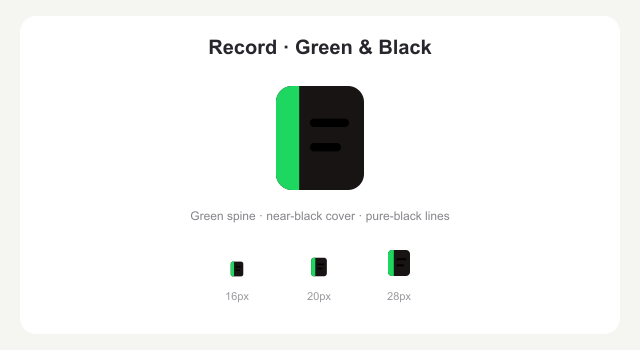
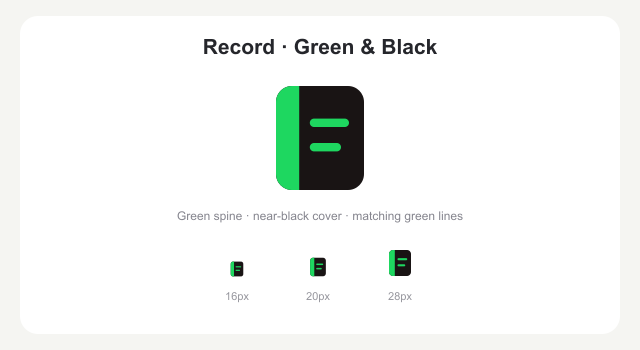
design: match Record lines to green spine (#124)

diff --git a/docs/design/record-ai-chat-icons-20261013.html b/docs/design/record-ai-chat-icons-20261013.html
@@ -1,51 +1,51 @@
 <!doctype html><html lang="zh-CN"><meta charset="utf-8"><meta name="viewport" content="width=device-width,initial-scale=1"><title>Record 与 AI 对话 · 彩色图标提案</title><style>*{box-sizing:border-box}body{margin:0;padding:48px 32px;background:#f5f5f2;color:#28282d;font-family:system-ui,-apple-system,sans-serif}main{max-width:850px;margin:auto}h1{font-size:26px;font-weight:600;margin:0 0 12px}.intro{color:#85858b;font-size:14px;margin:0 0 28px}.grid{display:grid;grid-template-columns:repeat(2,minmax(0,1fr));gap:20px}article{background:#fff;border-radius:16px;padding:34px 28px}h2{text-align:center;font-size:18px;margin:18px 0 8px}article>p{text-align:center;font-size:13px;color:#85858b;margin:0 0 28px}.hero{display:flex;justify-content:center}.sizes{display:flex;gap:30px;align-items:flex-end;justify-content:center;padding-bottom:28px}.sizes>span{display:flex;flex-direction:column;align-items:center;gap:10px}small{font-size:11px;color:#aaa}.tab{display:flex;align-items:center;gap:9px;padding:12px 14px;border-radius:8px;font-size:13px;background:#f4f4f7;margin:8px 0}.dark{background:#25242b;color:#e9e8ee}svg{display:block;flex:none}footer{margin-top:22px;font-size:12px;color:#999;text-align:center}@media(max-width:600px){body{padding:24px 16px}.grid{grid-template-columns:1fr}}</style><main><h1>Record 绿黑试版与配色方案</h1><p class="intro">参照 DSH 彩色图标：实色、圆角、白色标记；放大预览与实际使用尺寸。</p><div class="grid"><article><div class="hero"><svg xmlns="http://www.w3.org/2000/svg" width="112" height="112" viewBox="0 0 28 28" fill="none">
   <title>Record · Spotify</title>
-  <!-- Green spine, near-black cover, pure-black record lines. -->
+  <!-- Green spine, near-black cover, matching green record lines. -->
   <rect x="3" y="1" width="22" height="26" rx="4" fill="#191414"/>
   <path d="M8.8 1H7C4.79 1 3 2.79 3 5V23C3 25.21 4.79 27 7 27H8.8V1Z" fill="#1ED760"/>
-  <path d="M12.5 10.2H20.2M12.5 16.3H18.2" stroke="#000" stroke-width="2.1" stroke-linecap="round"/>
+  <path d="M12.5 10.2H20.2M12.5 16.3H18.2" stroke="#1ED760" stroke-width="2.1" stroke-linecap="round"/>
 </svg>
-</div><h2>Record · 绿黑试版</h2><p>绿色书脊，近黑封面，纯黑记录线</p><div class="sizes"><span><svg xmlns="http://www.w3.org/2000/svg" width="16" height="16" viewBox="0 0 28 28" fill="none">
+</div><h2>Record · 绿黑试版</h2><p>绿色书脊，近黑封面，同色绿色记录线</p><div class="sizes"><span><svg xmlns="http://www.w3.org/2000/svg" width="16" height="16" viewBox="0 0 28 28" fill="none">
   <title>Record · Spotify</title>
-  <!-- Green spine, near-black cover, pure-black record lines. -->
+  <!-- Green spine, near-black cover, matching green record lines. -->
   <rect x="3" y="1" width="22" height="26" rx="4" fill="#191414"/>
   <path d="M8.8 1H7C4.79 1 3 2.79 3 5V23C3 25.21 4.79 27 7 27H8.8V1Z" fill="#1ED760"/>
-  <path d="M12.5 10.2H20.2M12.5 16.3H18.2" stroke="#000" stroke-width="2.1" stroke-linecap="round"/>
+  <path d="M12.5 10.2H20.2M12.5 16.3H18.2" stroke="#1ED760" stroke-width="2.1" stroke-linecap="round"/>
 </svg>
 <small>16px</small></span><span><svg xmlns="http://www.w3.org/2000/svg" width="20" height="20" viewBox="0 0 28 28" fill="none">
   <title>Record · Spotify</title>
-  <!-- Green spine, near-black cover, pure-black record lines. -->
+  <!-- Green spine, near-black cover, matching green record lines. -->
   <rect x="3" y="1" width="22" height="26" rx="4" fill="#191414"/>
   <path d="M8.8 1H7C4.79 1 3 2.79 3 5V23C3 25.21 4.79 27 7 27H8.8V1Z" fill="#1ED760"/>
-  <path d="M12.5 10.2H20.2M12.5 16.3H18.2" stroke="#000" stroke-width="2.1" stroke-linecap="round"/>
+  <path d="M12.5 10.2H20.2M12.5 16.3H18.2" stroke="#1ED760" stroke-width="2.1" stroke-linecap="round"/>
 </svg>
 <small>20px</small></span><span><svg xmlns="http://www.w3.org/2000/svg" width="28" height="28" viewBox="0 0 28 28" fill="none">
   <title>Record · Spotify</title>
-  <!-- Green spine, near-black cover, pure-black record lines. -->
+  <!-- Green spine, near-black cover, matching green record lines. -->
   <rect x="3" y="1" width="22" height="26" rx="4" fill="#191414"/>
   <path d="M8.8 1H7C4.79 1 3 2.79 3 5V23C3 25.21 4.79 27 7 27H8.8V1Z" fill="#1ED760"/>
-  <path d="M12.5 10.2H20.2M12.5 16.3H18.2" stroke="#000" stroke-width="2.1" stroke-linecap="round"/>
+  <path d="M12.5 10.2H20.2M12.5 16.3H18.2" stroke="#1ED760" stroke-width="2.1" stroke-linecap="round"/>
 </svg>
 <small>28px</small></span><span><svg xmlns="http://www.w3.org/2000/svg" width="32" height="32" viewBox="0 0 28 28" fill="none">
   <title>Record · Spotify</title>
-  <!-- Green spine, near-black cover, pure-black record lines. -->
+  <!-- Green spine, near-black cover, matching green record lines. -->
   <rect x="3" y="1" width="22" height="26" rx="4" fill="#191414"/>
   <path d="M8.8 1H7C4.79 1 3 2.79 3 5V23C3 25.21 4.79 27 7 27H8.8V1Z" fill="#1ED760"/>
-  <path d="M12.5 10.2H20.2M12.5 16.3H18.2" stroke="#000" stroke-width="2.1" stroke-linecap="round"/>
+  <path d="M12.5 10.2H20.2M12.5 16.3H18.2" stroke="#1ED760" stroke-width="2.1" stroke-linecap="round"/>
 </svg>
 <small>32px</small></span></div><div class="tab"><svg xmlns="http://www.w3.org/2000/svg" width="16" height="16" viewBox="0 0 28 28" fill="none">
   <title>Record · Spotify</title>
-  <!-- Green spine, near-black cover, pure-black record lines. -->
+  <!-- Green spine, near-black cover, matching green record lines. -->
   <rect x="3" y="1" width="22" height="26" rx="4" fill="#191414"/>
   <path d="M8.8 1H7C4.79 1 3 2.79 3 5V23C3 25.21 4.79 27 7 27H8.8V1Z" fill="#1ED760"/>
-  <path d="M12.5 10.2H20.2M12.5 16.3H18.2" stroke="#000" stroke-width="2.1" stroke-linecap="round"/>
+  <path d="M12.5 10.2H20.2M12.5 16.3H18.2" stroke="#1ED760" stroke-width="2.1" stroke-linecap="round"/>
 </svg>
 <span>Record · 绿黑试版</span></div><div class="tab dark"><svg xmlns="http://www.w3.org/2000/svg" width="16" height="16" viewBox="0 0 28 28" fill="none">
   <title>Record · Spotify</title>
-  <!-- Green spine, near-black cover, pure-black record lines. -->
+  <!-- Green spine, near-black cover, matching green record lines. -->
   <rect x="3" y="1" width="22" height="26" rx="4" fill="#191414"/>
   <path d="M8.8 1H7C4.79 1 3 2.79 3 5V23C3 25.21 4.79 27 7 27H8.8V1Z" fill="#1ED760"/>
-  <path d="M12.5 10.2H20.2M12.5 16.3H18.2" stroke="#000" stroke-width="2.1" stroke-linecap="round"/>
+  <path d="M12.5 10.2H20.2M12.5 16.3H18.2" stroke="#1ED760" stroke-width="2.1" stroke-linecap="round"/>
 </svg>
 <span>Record · 绿黑试版</span></div></article><article><div class="hero"><svg xmlns="http://www.w3.org/2000/svg" width="112" height="112" viewBox="0 0 28 28" fill="none">
   <title>Record</title>

diff --git a/docs/requirements/project-content-tabs-execution.md b/docs/requirements/project-content-tabs-execution.md
@@ -38,6 +38,8 @@
 - 文件：`src/assets/icons/record-color.svg`（绿色）、`record-color-pink.svg`、`ai-chat-color.svg`；`docs/design/record-ai-chat-icons-20261013.html` 和 `.png`，以及两种 Record 配色对比 `record-file-comparison-20261013.png`。当前临时选择页置顶 Record 两种配色和 AI 对话，保留 59 个 DSH 彩色参考项，用户可刷新查看。两种简化 Record 的最终 16px 渲染和透明背景已验证；主 agent 检查配色与装订点移除，纯资产变更复用原验证范围。
 - 绿黑试版：按用户要求新增独立 `record-color-spotify.svg`，绿色书脊 `#1ED760`、近黑封面 `#191414`、纯黑记录线 `#000`；保留原绿色和粉色方案。新增 `record-spotify-trial-20261013.png`，HTML 和临时选择页置顶试版。XML 与 16px 渲染中绿色／深色／透明像素检查通过，主 agent 目视确认形状和配色；黑色记录线在小尺寸下较隐约。仅修改静态设计资产，未接入应用，未运行应用构建或启动窗口。
 
+- 绿黑试版调整：按用户最新反馈将内部两条记录线改为与书脊相同的 `#1ED760`，同步 SVG、HTML、临时选择页和 PNG。复查 XML 与 16px 渲染，主 agent 目视确认绿色线条在黑色封面上的辨识度；仅静态资产变更。
+
 ### 2026-10-13 文件与应用图标工作包（#124）
 
 - 依赖：现有 DSH `FileTypeIcon`／分类器、File 当前原件身份核验、Workspace generation、紧凑工具栏。接收时无 `tauri dev` 监听进程；保留 Agent／Overview／Voice 等并行未提交改动。
